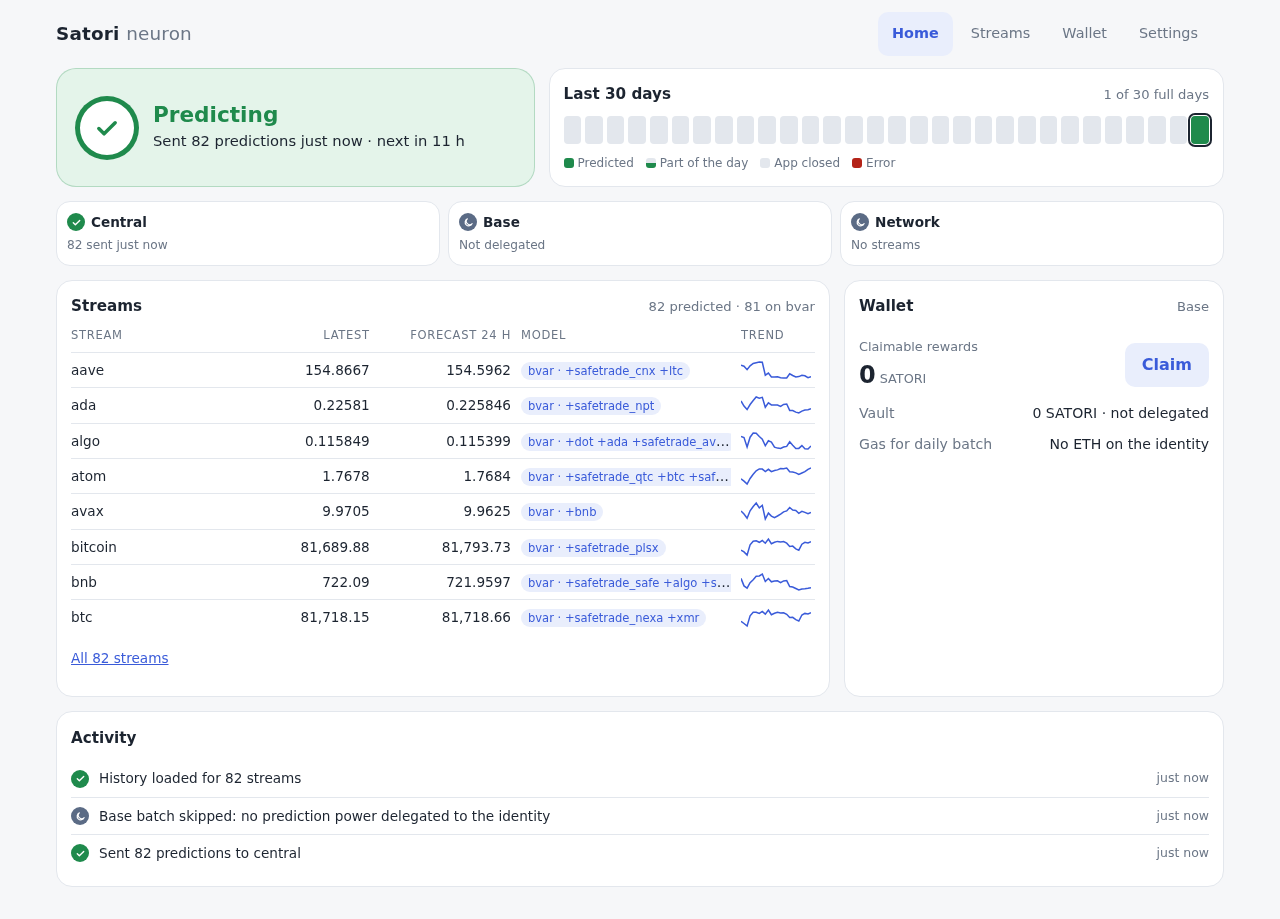
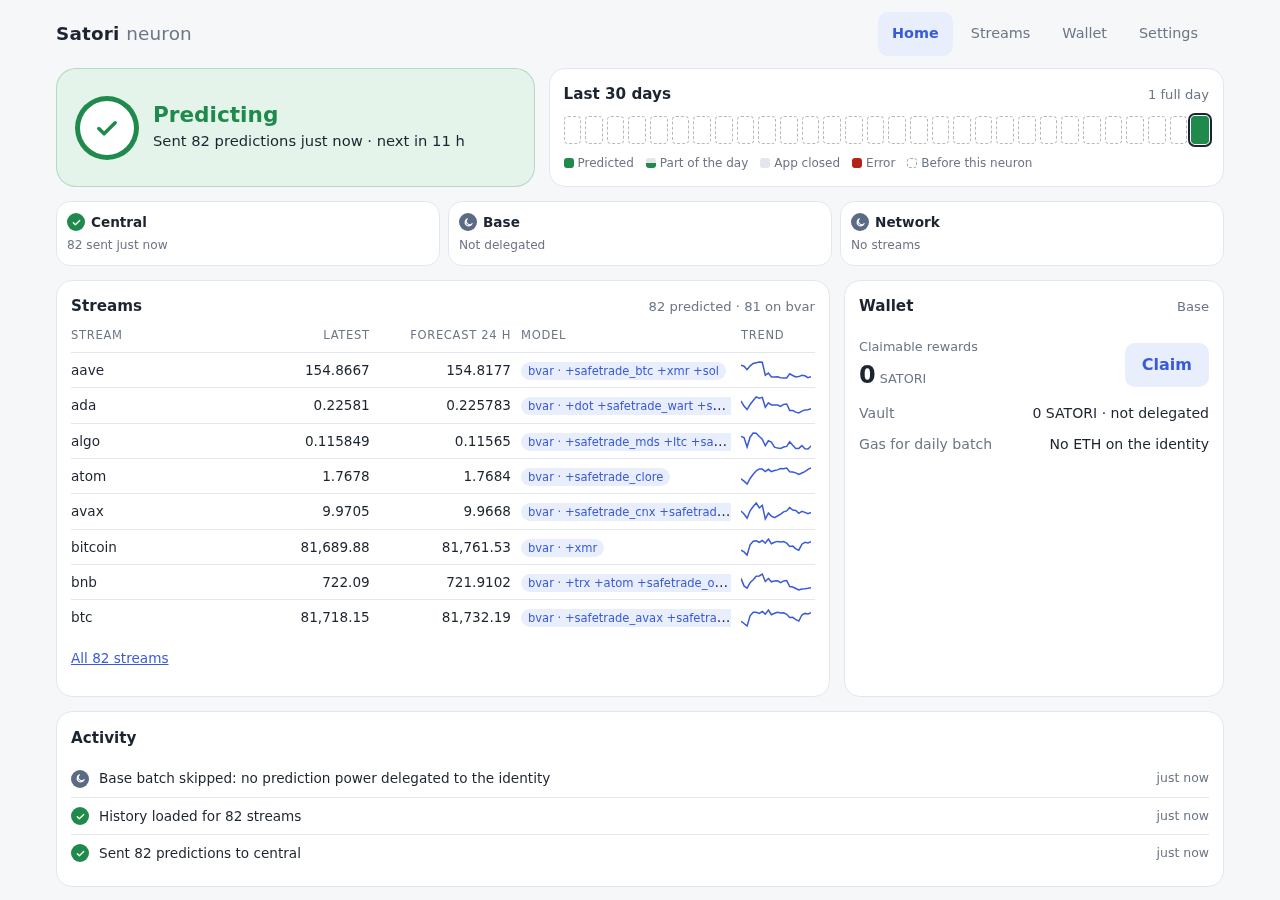
ui: the day strip's days before the neuron began are 'before' (an empty dashed cell, "Before this neuron"), not closed days, and the summary counts only the neuron's own days ("1 full day", "2 of 3 full days"); it began at the log's first session (activity.first(), db.firstSession()) or the keys' cr

diff --git a/src/neuron/health.js b/src/neuron/health.js
@@ -253,9 +253,15 @@ function outcome(r) {
   return null;
 }
 
-/** The last `n` local days, oldest first: { date, code: full | part | error | closed, ran, today }. */
-export function daysOf(rows, now, n = DAYS) {
+/**
+ * The last `n` local days, oldest first: { date, code: full | part | error | closed | before, ran, today }. `before`:
+ * the day ended before the neuron began, its first session or `since` (the keys' creation, the log's first session)
+ * when earlier.
+ */
+export function daysOf(rows, now, since = null, n = DAYS) {
   const sessions = sessionsOf(rows, now);
+  const known = [since, sessions[0]?.at].filter(Number.isFinite);
+  const born = known.length ? Math.min(...known) : -Infinity; // nothing known: no day is before
   const today = new Date(now * 1000);
   today.setHours(0, 0, 0, 0);
   const out = [];
@@ -271,7 +277,7 @@ export function daysOf(rows, now, n = DAYS) {
       const o = outcome(r);
       if (o && r.at < b && end(r) >= a) (o[1] === 'ok' ? ok : fail).add(o[0]);
     }
-    const code = !ok.size ? (fail.size ? 'error' : 'closed') : [...fail].every((c) => ok.has(c)) ? 'full' : 'part';
+    const code = ok.size ? ([...fail].every((c) => ok.has(c)) ? 'full' : 'part') : fail.size ? 'error' : b <= born ? 'before' : 'closed';
     out.push({ date: isoDay(start), code, ran: sessions.some((s) => s.at < b && s.until >= a), today: k === 0 });
   }
   return out;
@@ -327,9 +333,10 @@ export function feedOf(rows, n = FEED) {
  * @param {{persisted: boolean}|null} o.storage
  * @param {{installed: boolean, canInstall: boolean}} o.app
  * @param {boolean} o.backedUp the vault's words confirmed (meta.backup_at)
+ * @param {number|null} o.since when the neuron began, if earlier than the rows show: the keys' creation, the log's first session
  * @returns {{status, title, line, action, days, channels, feed, reasons}}
  */
-export function healthOf({ now, rows = [], central, base, nostr, storage, app, backedUp }) {
+export function healthOf({ now, rows = [], central, base, nostr, storage, app, backedUp, since = null }) {
   const sessions = sessionsOf(rows, now);
   const c = centralReasons({ now, rows, sessions, central, app });
   const reasons = [...c.out, ...baseReasons({ rows, base }), ...networkReasons({ nostr })];
@@ -360,7 +367,7 @@ export function healthOf({ now, rows = [], central, base, nostr, storage, app, b
   const action = a ? { id: a.id, text: a.text, button: a.button, ...a.act } : null;
   return {
     status, title, line, action,
-    days: daysOf(rows, now),
+    days: daysOf(rows, now, since),
     channels: chips({ now, reasons, lastGood: lg, base, nostr }),
     feed: feedOf(rows),
     reasons: reasons.map((r) => ({ id: r.id, status: r.status, channel: r.channel, text: r.text ?? r.line })),

diff --git a/e2e/home.spec.js b/e2e/home.spec.js
@@ -1,7 +1,8 @@
 // Home's health (docs/design/health.md) in Chrome, each state driven with the stub central and a fake chain behind
 // /rpc; "was asleep" from a seeded activity log. Also the phone's first screen (390 × 844 and 360 × 740: the answer
 // without scrolling, tap targets of 44 px, no sideways scroll on any tab) and the screenshots of each state, phone and
-// computer, light and dark (SHOTS=1 writes them to docs/screenshots/home-*.png; else to the test's output).
+// computer, light and dark (SHOTS=1 writes them to docs/screenshots/home-*.png; else to the test's output), and a new
+// neuron's first day.
 import { expect, test } from '@playwright/test';
 import { readFileSync } from 'node:fs';
 import { fakeSatori, E18 } from '../test/fake-satori.js';
@@ -273,7 +274,7 @@ test('bad: central refuses two batches in a row, then the login; the card goes t
   expect(central.prod).toEqual([]);
 });
 
-test('starting: a new neuron is calm before its first poll, then predicting', async ({ context, page }) => {
+test('starting: a new neuron is calm before its first poll, then predicting; the days before it are not closed days', async ({ context, page }) => {
   const { central } = await setup(context);
   await openApp(page);
   await page.evaluate(([p, w]) => window.satori.setup({ passphrase: p, vaultWords: w }), [PASS, v.words]);
@@ -281,8 +282,17 @@ test('starting: a new neuron is calm before its first poll, then predicting', as
   expect(h).toMatchObject({ status: 'idle', title: 'Starting', action: null });
   expect(h.line).toMatch(/^First predictions in \d+ min\.$/);
   expect(h.days.at(-1)).toMatchObject({ code: 'closed', ran: true, today: true });
+  expect(h.days.slice(0, -1).every((d) => d.code === 'before' && !d.ran)).toBe(true);
+  const before = page.locator('[data-test=day][data-code=before]');
+  await expect(before).toHaveCount(29);
+  await expect(before.first()).toHaveAttribute('title', /^\w+ \d+: Before this neuron$/);
+  await expect(page.locator('[data-test=days-summary]')).toHaveText('0 full days');
   centralAt(central, nowS() - 60);
   await page.evaluate(() => window.satori.poll());
   await expect(hero(page)).toHaveAttribute('data-s', 'ok');
   await expect(page.locator('[data-test=health-line]')).toHaveText('Sent 8 predictions just now · next in 11 h');
+  await expect(page.locator('[data-test=day]').last()).toHaveAttribute('data-code', 'full');
+  await expect(page.locator('[data-test=days-summary]')).toHaveText('1 full day');
+  await shots(page, 'new');
+  expect(central.prod).toEqual([]);
 });

diff --git a/src/ui/home.js b/src/ui/home.js
@@ -5,20 +5,17 @@
 import { html } from '@arrow-js/core';
 import { state } from './state.js';
 import { mark, sparkPath, unlockPrompt } from './parts.js';
-import { fmtNum, modelText, amountText } from './format.js';
+import { fmtNum, modelText, amountText, daysText } from './format.js';
 import { fmtAgo } from '../neuron/health.js';
 
 const EMPTY = { status: 'idle', title: 'Starting', line: '', action: null, days: [], reasons: [], feed: [],
   channels: { central: { state: 'idle', text: '–' }, base: { state: 'idle', text: '–' }, network: { state: 'idle', text: '–' } } };
 const h = () => state.health ?? EMPTY;
 const HOME_ROWS = 8;
-const DAY_WORDS = { full: 'Predicted', part: 'Part of the day', error: 'Only failures', closed: 'App closed' };
+const DAY_WORDS = { full: 'Predicted', part: 'Part of the day', error: 'Only failures', closed: 'App closed', before: 'Before this neuron' };
 const CHANNEL_TAB = { central: 'streams', base: 'wallet', network: 'streams' };
 
-const fullDays = (n) => {
-  const days = h().days.slice(-n);
-  return days.length ? `${days.filter((d) => d.code === 'full').length} of ${n} full days` : '';
-};
+const fullDays = (n) => daysText(h().days.slice(-n));
 
 function dayTitle(d) {
   const when = new Date(`${d.date}T12:00:00`).toLocaleDateString('en-US', { month: 'short', day: 'numeric' });
@@ -90,7 +87,7 @@ export function home(a) {
     <section class="tile days-tile">
       <div class="tile-h"><b class="phone-only">Last 14 days</b><b class="desk-only">Last 30 days</b><span class="phone-only" data-test="days-summary">${() => fullDays(14)}</span><span class="desk-only">${() => fullDays(30)}</span></div>
       <div class="strip" data-test="days">${() => h().days.map((d) => cell(d).key(`${d.date}:${d.code}:${d.ran}:${d.today}`))}</div>
-      <div class="legend desk-only"><span><i data-code="full"></i>Predicted</span><span><i data-code="part"></i>Part of the day</span><span><i data-code="closed"></i>App closed</span><span><i data-code="error"></i>Error</span></div>
+      <div class="legend desk-only"><span><i data-code="full"></i>Predicted</span><span><i data-code="part"></i>Part of the day</span><span><i data-code="closed"></i>App closed</span><span><i data-code="error"></i>Error</span><span hidden="${() => !h().days.some((d) => d.code === 'before')}"><i data-code="before"></i>Before this neuron</span></div>
     </section>
 
     <section class="chans" data-test="channels">${chip(a, 'central', 'Central')}${chip(a, 'base', 'Base')}${chip(a, 'network', 'Network')}</section>

diff --git a/src/neuron/health.test.js b/src/neuron/health.test.js
@@ -242,7 +242,7 @@ test('the action priority: the worst status; one card, the highest reason that h
 
 describe('the day strip: local days', () => {
   const day = (k, hour = 12) => new Date(2026, 9, 16 - k, hour, 0, 0).getTime() / 1000; // k days ago, local
-  test('full, part, error, closed (never ran, or ran with nothing due); today outlined; 30 days, oldest first', () => {
+  test('full, part, error, closed (never ran, or ran with nothing due), before; today outlined; 30 days, oldest first', () => {
     const rows = [
       open(day(5, 8), day(5, 20)), good(day(5, 9)), row('base', day(5, 10), 'ok', { round: 1, games: [{}] }), // full
       open(day(4, 8), day(4, 20)), good(day(4, 9)), row('base', day(4, 10), 'bad', { error: 'x' }), // part: Base failed
@@ -258,7 +258,18 @@ describe('the day strip: local days', () => {
       ['2026-10-11', 'full', true], ['2026-10-12', 'part', true], ['2026-10-13', 'error', true], ['2026-10-14', 'closed', true],
       ['2026-10-15', 'closed', false], ['2026-10-16', 'full', true]]);
     expect(days.filter((d) => d.today)).toHaveLength(1);
-    expect(days[0]).toMatchObject({ date: '2026-09-17', code: 'closed', ran: false });
+    expect(days[0]).toMatchObject({ date: '2026-09-17', code: 'before', ran: false }); // before the first session
+  });
+  test('before: the days before the neuron began (its first session, or `since` when earlier) are not closed days', () => {
+    const fresh = [open(day(0, 8), NOW), good(day(0, 9))];
+    const days = daysOf(fresh, NOW);
+    expect(days.slice(0, -1).every((d) => d.code === 'before' && !d.ran)).toBe(true);
+    expect(days.at(-1)).toMatchObject({ code: 'full', ran: true, today: true });
+    // since: the keys made 3 days ago at 22:00, or the log's first session older than the rows read
+    expect(daysOf(fresh, NOW, day(3, 22)).slice(-5).map((d) => d.code)).toEqual(['before', 'closed', 'closed', 'closed', 'full']);
+    expect(daysOf(fresh, NOW, NOW + H).slice(-2).map((d) => d.code)).toEqual(['before', 'full']); // a later one changes nothing
+    expect(daysOf([], NOW).every((d) => d.code === 'closed')).toBe(true); // nothing known: nothing before
+    expect(health({ rows: fresh, since: day(1, 23) }).days.slice(-3).map((d) => d.code)).toEqual(['before', 'closed', 'full']);
   });
   test('a merged failure counts on every day it spans; a skip that is not a failure counts on none', () => {
     const rows = [open(day(2, 1), NOW), good(day(2, 2)), good(day(1, 2)), good(day(0, 2)),

diff --git a/src/db/index.js b/src/db/index.js
@@ -12,7 +12,7 @@
 //   relay (Nostr) streams, apart from central's (docs/design/nostr.md):
 //   db.subscribeRelay(s) / unsubscribeRelay(uuid) / relayStream(uuid) / relayStreams({active}) / countActiveRelay()
 //   db.addRelayObservation(o) → new? / relayHistory(uuid) / nextPredSeq(uuid) / addRelayPrediction(p) / relayPredictions(uuid, limit)
-//   the activity log (docs/design/health.md): db.addActivity(row) → id / updateActivity(id, fields) / activity(since) / pruneActivity(before)
+//   the activity log (docs/design/health.md): db.addActivity(row) → id / updateActivity(id, fields) / activity(since) / firstSession() / pruneActivity(before)
 //   await db.checkpoint() / db.close()
 // `conn` is an AsyncDuckDBConnection (browser) or a blocking one (node tests).
 import { MIGRATIONS } from './schema.js';
@@ -327,6 +327,8 @@ export async function openDb(conn, closeDb = async () => conn.close()) {
       WHERE greatest(ts, coalesce(last_ts, ts)) >= ${D} ORDER BY ts, id`, dbl(since)))
       .map(({ ts, last_ts: until, data, ...r }) => ({ id: r.id, at: ts, until, kind: r.kind, level: r.level,
         data: JSON.parse(data), count: r.count, mkey: r.mkey }))),
+    /** When the log's oldest session began (unix seconds), or null. */
+    firstSession: inOrder(async () => (await rows("SELECT min(ts) AS at FROM activity WHERE kind = 'open'"))[0].at ?? null),
     /** The 90-day bound: rows that ended before `before` go. */
     pruneActivity: inOrder((before) => run(`DELETE FROM activity WHERE greatest(ts, coalesce(last_ts, ts)) < ${D}`, dbl(before))),
 

diff --git a/src/main.js b/src/main.js
@@ -636,7 +636,7 @@ window.satori = {
   async health() {
     ready();
     return healthOf({ now: nowS(), rows: activity.rows(), central: await centralStatus(), base: await base.status(),
-      nostr: await nostrStatus(), storage: await storage(), app: { ...state.app }, backedUp: !!state.backupAt });
+      nostr: await nostrStatus(), storage: await storage(), app: { ...state.app }, backedUp: !!state.backupAt, since: since() });
   },
   /** Show a tab: 'home' | 'streams' | 'wallet' | 'settings' (also #home … #settings in the URL). → the tab */
   go(tab) { return go(String(tab ?? '').replace(/^#/, '')); },
@@ -700,12 +700,15 @@ window.satori = {
   async setBaseMaxFee(gwei) { ready(); return base.setSettings({ maxFee: gwei }); },
 };
 
+/** When this neuron began: the log's first session, or the keys' creation when earlier (records before it have none). */
+const since = () => Math.min(activity.first() ?? Infinity, record?.created ?? Infinity);
+
 /** Home's health, kept current from the log and the statuses (the UI's; agents' health() reads fresh). */
 watch(() => {
   if (state.screen !== 'home' || !activity) return;
   void state.activityRev; // the log changed
   state.health = healthOf({ now: state.now, rows: activity.rows(), central: state.central, base: state.base, nostr: state.nostr,
-    storage: state.storage, app: state.app, backedUp: !!state.backupAt });
+    storage: state.storage, app: state.app, backedUp: !!state.backupAt, since: since() });
 });
 
 async function boot() {

diff --git a/src/neuron/activity.js b/src/neuron/activity.js
@@ -12,11 +12,12 @@ const QUIET_SKIPS = /^(already predicted|waiting for the batch)/; // a round alr
 
 /**
  * @param {{db: object, now?: () => number, onChange?: () => void}} o
- * → { start, beat, rows, central, history, base, published, wallet, error }
+ * → { start, beat, rows, first, central, history, base, published, wallet, error }
  */
 export function createActivity({ db, now = () => Date.now() / 1000, onChange = () => {} }) {
   let rows = []; // the last LOAD_S, oldest first, as db.activity() returns them
   let session = null; // the current `open` row
+  let first = null; // when the log's first session began (the rows read hold only the last 31 days)
   let catchUp = null; // a session that missed work: its gap, until its first good cycle
   let lastTick = 0;
   let pruned = 0;
@@ -61,11 +62,16 @@ export function createActivity({ db, now = () => Date.now() / 1000, onChange = (
   return {
     rows: () => rows,
 
-    /** At page load: the 90-day prune, the rows health reads, a session. */
+    /** When the log's first session began (unix seconds; null before start): the neuron's first day. */
+    first: () => first,
+
+    /** At page load: the log's first session, the 90-day prune, the rows health reads, a session. */
     start: safely(async () => {
+      first = await db.firstSession();
       await prune();
       rows = await db.activity(now() - LOAD_S);
       await openSession();
+      first ??= session.at;
     }),
 
     /**

diff --git a/src/style.css b/src/style.css
@@ -161,6 +161,7 @@ details.card > summary { color: var(--text); font-weight: 600; }
 .cell[data-code="full"] { background: var(--ok); }
 .cell[data-code="part"] { background: linear-gradient(to top, var(--ok) 50%, var(--cell-off) 50%); }
 .cell[data-code="error"] { background: var(--bad); }
+.cell[data-code="before"] { background: none; border: 1px dashed var(--muted); opacity: 0.5; } /* before this neuron: an empty slot */
 .cell.today { outline: 2px solid var(--text); outline-offset: 1px; }
 .strip .cell:nth-child(-n+16) { display: none; } /* the phone shows the last 14 of 30 */
 @media (max-width: 1023px) { .desk-only { display: none !important; } }
@@ -169,6 +170,7 @@ details.card > summary { color: var(--text); font-weight: 600; }
 .legend i[data-code="full"] { background: var(--ok); }
 .legend i[data-code="part"] { background: linear-gradient(to top, var(--ok) 50%, var(--cell-off) 50%); }
 .legend i[data-code="error"] { background: var(--bad); }
+.legend i[data-code="before"] { background: none; border: 1px dashed var(--muted); opacity: 0.6; }
 .chans { display: grid; grid-template-columns: repeat(3, minmax(0, 1fr)); gap: 8px; }
 .chan { background: var(--card); border: 1px solid var(--line); border-radius: 14px; padding: 10px; display: grid; gap: 4px; min-width: 0; }
 .chan .row1 { display: flex; align-items: center; gap: 6px; font-weight: 600; font-size: 0.85rem; }

diff --git a/src/ui/format.test.js b/src/ui/format.test.js
@@ -3,7 +3,7 @@ import {
   fmtNum, fmtWhen, pickIndexes, registrationText, mismatchText, pollText, submitText, modelTitle,
   fmtCadence, shortKey, relayText, obsText, catalogMatch, predText,
   shortHash, amountText, fmtUtc, delegationText, lockText, gasText, batchText, checkText, claimLine, rpcText, rpcTitle, stepText,
-  storageText, playNote, modelText, historyText,
+  storageText, playNote, modelText, historyText, daysText,
 } from './format.js';
 
 test('fmtNum', () => {
@@ -72,6 +72,15 @@ test('fmtCadence', () => {
 test('shortKey', () => {
[1 lines of base64/hex data omitted]
   expect(shortKey('')).toBe('');
+});
+
+test('daysText: the day strip\'s summary counts only the days since the neuron began', () => {
+  const days = (codes) => codes.map((code) => ({ code }));
+  expect(daysText(days(['full', 'closed', 'part', 'full']))).toBe('2 of 4 full days');
+  expect(daysText(days([...Array(13).fill('before'), 'full']))).toBe('1 full day'); // a new neuron's first day
+  expect(daysText(days([...Array(13).fill('before'), 'closed']))).toBe('0 full days');
+  expect(daysText(days([...Array(11).fill('before'), 'full', 'error', 'full']))).toBe('2 of 3 full days');
+  expect(daysText([])).toBe('');
 });
 
 test('relayText: the state in a word, and read only', () => {

diff --git a/src/neuron/activity.test.js b/src/neuron/activity.test.js
@@ -154,6 +154,19 @@ test('kept 90 days: pruned at start and once a day', async () => {
   expect(kinds(a.rows())).toEqual(['open', 'open']);
 });
 
+test('first(): when the log\'s first session began, also one older than the rows health reads; this one in a new log', async () => {
+  const a = make();
+  expect(a.first()).toBe(null);
+  await db.addActivity({ at: T - 50 * 86400, kind: 'open', level: 'ok', data: {}, until: T - 50 * 86400 + 600 });
+  await a.start();
+  expect(a.first()).toBe(T - 50 * 86400);
+  expect(kinds(a.rows())).toEqual(['open']); // 50 days ago is not read: only this session
+  await db.pruneActivity(T); // a new log
+  const b = make();
+  await b.start();
+  expect(b.first()).toBe(T);
+});
+
 test('a write that fails is logged, never thrown', async () => {
   const warn = vi.spyOn(console, 'warn').mockImplementation(() => {});
   const a = createActivity({ db: { ...db, addActivity: async () => { throw new Error('IO Error') } }, now });

diff --git a/src/keys/twokeys.test.js b/src/keys/twokeys.test.js
@@ -23,10 +23,11 @@ describe('newKeys: the record', () => {
   test('identity and Nostr key in plain text (hex), the vault sealed with its public key in clear; nothing of Docker\'s', async () => {
     const r = await newKeys({ identity: hex(a.entropyHex), vault: hex(b.entropyHex), nostr: fx.nostr.secretHex }, PASS);
     expect(r).toEqual({
-      v: 1, identity: a.entropyHex, nostr: fx.nostr.secretHex,
+      v: 1, created: expect.any(Number), identity: a.entropyHex, nostr: fx.nostr.secretHex,
       vault: { pubkey: b.pubkey, kdf: expect.objectContaining({ name: 'PBKDF2', hash: 'SHA-256' }),
         cipher: expect.objectContaining({ name: 'AES-GCM' }), data: expect.any(String) },
     });
+    expect(Math.abs(r.created - Date.now() / 1000)).toBeLessThan(60); // when these keys were made: Home's first day
     expect(JSON.stringify(r)).not.toMatch(/yaml|evr|wif|scripthash|words/i);
     expect(JSON.stringify(r)).not.toContain(b.entropyHex);
   });

diff --git a/src/db/db.test.js b/src/db/db.test.js
@@ -446,6 +446,14 @@ describe('the activity log (migration 8; docs/design/health.md)', () => {
     expect((await db.activity(450)).map((r) => r.id)).toEqual([b]);
   });
 
+  test('firstSession: when the oldest session in the log began, or null', async () => {
+    expect(await db.firstSession()).toBe(null);
+    await db.addActivity({ at: 50, kind: 'central', level: 'ok', data: {} }); // not a session
+    await db.addActivity({ at: 300, kind: 'open', level: 'ok', data: {}, until: 400 });
+    await db.addActivity({ at: 100.5, kind: 'open', level: 'ok', data: {}, until: 200 });
+    expect(await db.firstSession()).toBe(100.5);
+  });
+
   test('prune: rows that ended before the cutoff go; resetCentral keeps the log (it is this neuron\'s)', async () => {
     await db.addActivity({ at: 10, kind: 'open', level: 'ok', data: {}, until: 20 });
     await db.addActivity({ at: 10, kind: 'base', level: 'bad', data: {}, until: 90, mkey: 'e' });
